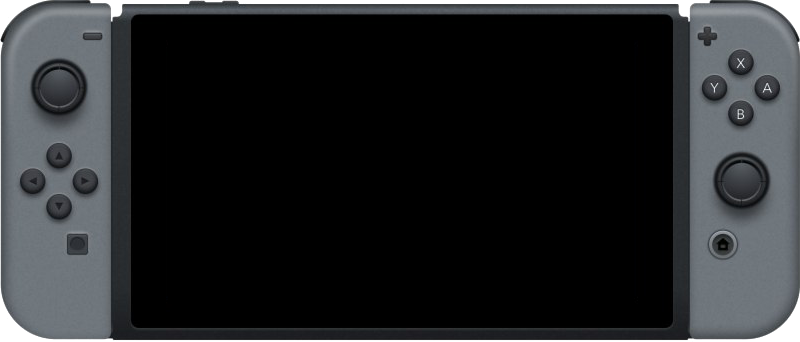
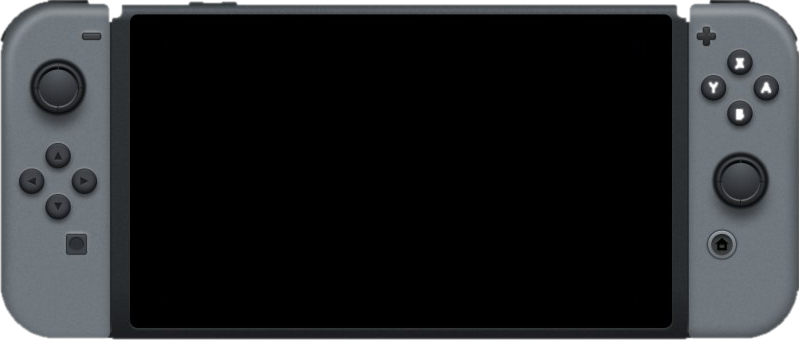
Witcher 3: clean Switch edges, test thumbnail with Switch instead of PS4
Claude-Session: https://claude.ai/code/session_01RHFrx85Hg5RpkQEmnVQQfw

diff --git a/witcher3/thumb/test_ps4swap.html b/witcher3/thumb/test_ps4swap.html
@@ -1,0 +1,23 @@
+<!doctype html><html><head><meta charset="utf-8"><style>
+@font-face{font-family:'Mont';font-weight:900;src:url('/node_modules/@fontsource/montserrat/files/montserrat-cyrillic-900-normal.woff2') format('woff2');unicode-range:U+0400-045F}
+@font-face{font-family:'Mont';font-weight:900;src:url('/node_modules/@fontsource/montserrat/files/montserrat-latin-900-normal.woff2') format('woff2');unicode-range:U+0000-00FF,U+2000-206F}
+*{margin:0;padding:0;box-sizing:border-box}
+html,body{width:1920px;height:1080px;overflow:hidden;background:#07080b;font-family:'Mont'}
+.p{position:absolute;top:0;height:1080px;width:474px;overflow:hidden;background:#07080b}
+.p img{position:absolute;left:50%;transform:translateX(-50%);top:0;width:560px;-webkit-mask-image:linear-gradient(180deg,#000 70%,transparent 98%)}
+.bg{position:absolute;inset:0;background:url(/tlou2/thumb/forest.jpg) no-repeat;background-size:1920px 1088px;filter:brightness(.8) saturate(1.1)}
+.p img{filter:drop-shadow(0 20px 30px rgba(0,0,0,.6))}
+.shade{position:absolute;inset:0;background:linear-gradient(0deg,#07080b 0%,rgba(7,8,11,.88) 25%,rgba(7,8,11,0) 52%)}
+.t{position:absolute;left:0;width:1920px;text-align:center;top:470px;font-weight:900;font-size:205px;color:#fff;letter-spacing:-.01em;line-height:1;text-shadow:0 0 50px rgba(0,0,0,.75),0 12px 30px rgba(0,0,0,.7)}
+.logo{position:absolute;left:50%;transform:translateX(-50%);top:300px;width:470px;filter:drop-shadow(0 10px 25px rgba(0,0,0,.9))}
+</style></head><body>
+<div class="p" style="left:0px"><div class="bg" style="background-position:-0px 0"></div><img src="/tlou2/thumb/pc_ellie.png"></div>
+<div class="p" style="left:482px"><div class="bg" style="background-position:-482px 0"></div><img src="/tlou2/thumb/pc_joel.png"></div>
+<div class="p" style="left:964px"><div class="bg" style="background-position:-964px 0"></div><img src="/tlou2/thumb/pc_dina.png"></div>
+<div class="p" style="left:1446px"><div class="bg" style="background-position:-1446px 0"></div><img src="/tlou2/thumb/pc_abby.png"></div>
+<div class="shade"></div>
+<img class="logo" id="logo" src="/tlou2/assets/logo_white.png">
+<div class="t" id="t">НЕВОЗМОЖНО</div>
+<img src="/witcher3/assets/switch_gray.png" style="position:absolute;left:50%;transform:translateX(-50%);top:690px;width:900px;filter:drop-shadow(0 30px 40px rgba(0,0,0,.8))">
+<script>const q=new URLSearchParams(location.search);if(q.get('t'))document.getElementById('t').innerHTML=q.get('t');if(q.get('nologo'))document.getElementById('logo').style.display='none';</script>
+</body></html>
